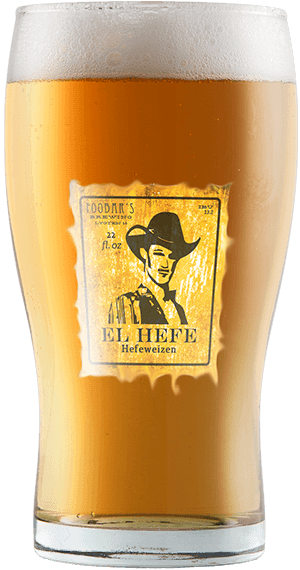
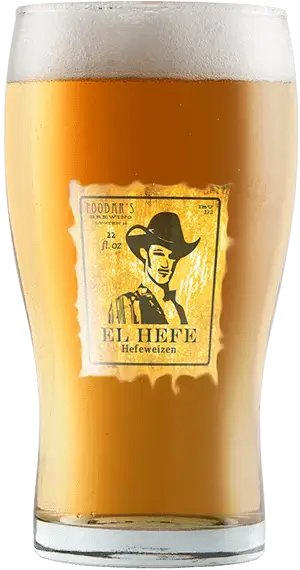
minified images

diff --git a/src/components/Landing.js b/src/components/Landing.js
@@ -8,11 +8,7 @@ export default function Landing() {
         <h1>
           Locally <br /> brewed <span>beer</span>
         </h1>
-        <picture>
-          <source type="image/webp" srcSet="images/beers-webp/elhefe.webp" />
-          <source type="image/png" srcSet="images/beers-png/elhefe.png" />
-          <img src="images/beers-png/elhefe.png" alt="Glass of beer" />
-        </picture>
+        <img src="images/beers-png/elhefe.png" alt="Glass of beer" />
       </div>
       <nav>
         <Link className="order-now" to="/beers">

diff --git a/src/sass/layout/_landing.scss b/src/sass/layout/_landing.scss
@@ -27,7 +27,7 @@
   place-items: center;
   img {
     height: 53vh;
-    width: 100%;
+    width: auto;
   }
 }
 
